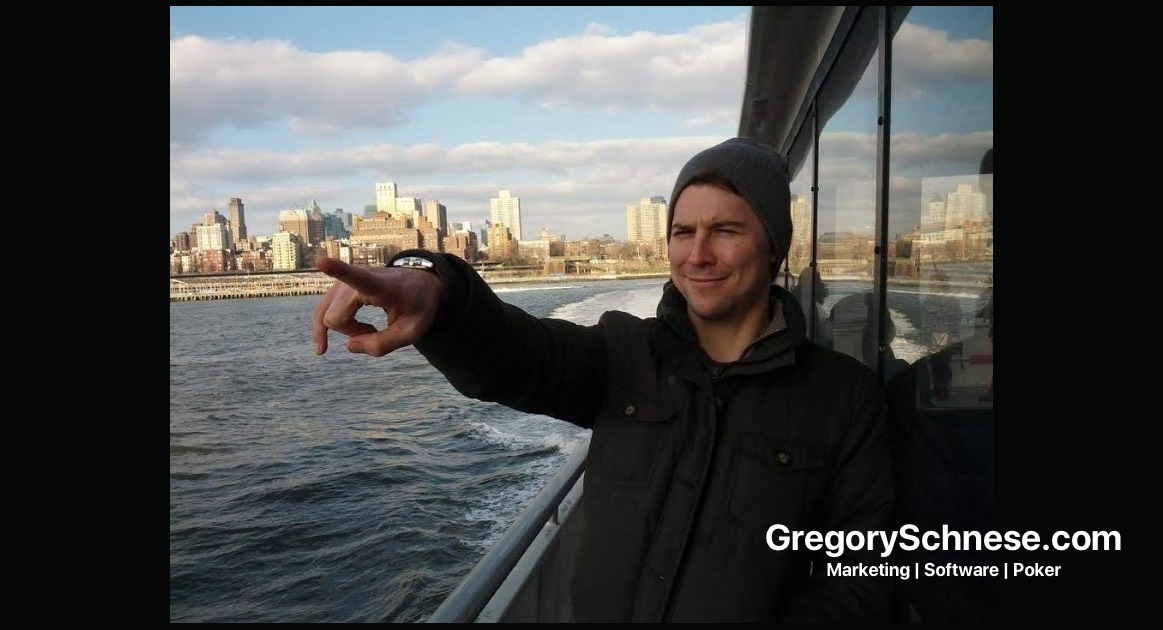
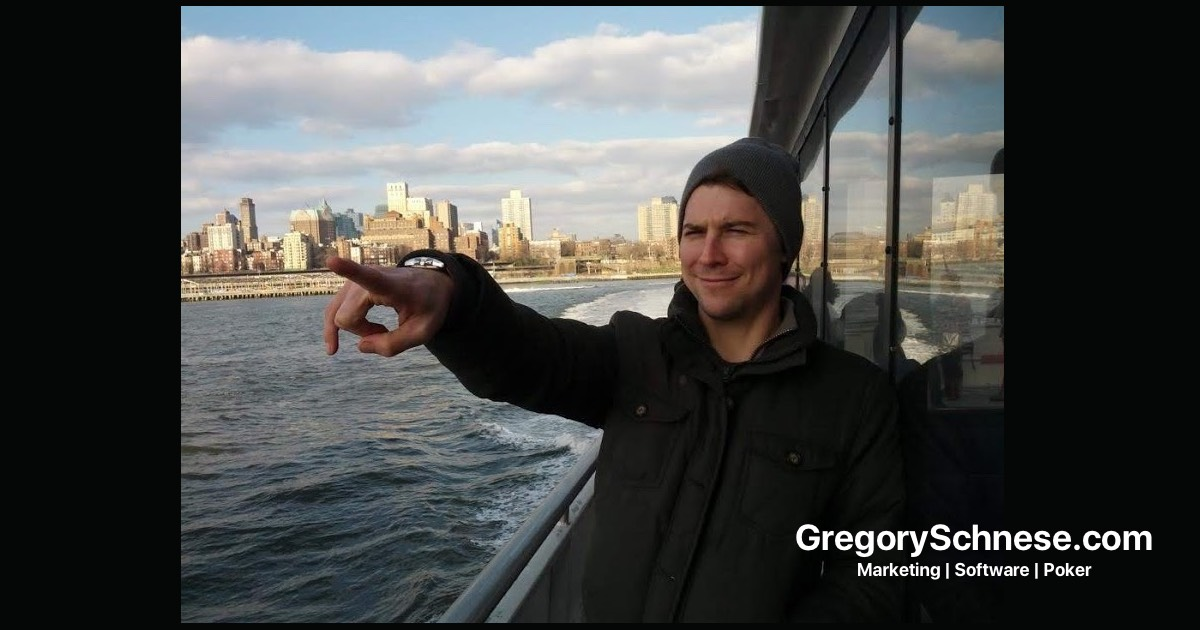
small tweak

diff --git a/public/index.html b/public/index.html
@@ -15,6 +15,9 @@
     <meta property="og:type" content="website" />
     <meta property="og:url" content="http://gregoryschnese.com" />
     <meta property="og:image" content="http://gregoryschnese.com/images/ogbackground.jpg" />
+    <meta property="og:image:type" content="image/jpeg" />
+    <meta property="og:image:width" content="1200" />
+    <meta property="og:image:height" content="630" />
     <meta property="og:description" content="Writings, presentations, services, and resume from Gregory Schnese." />
 
 
